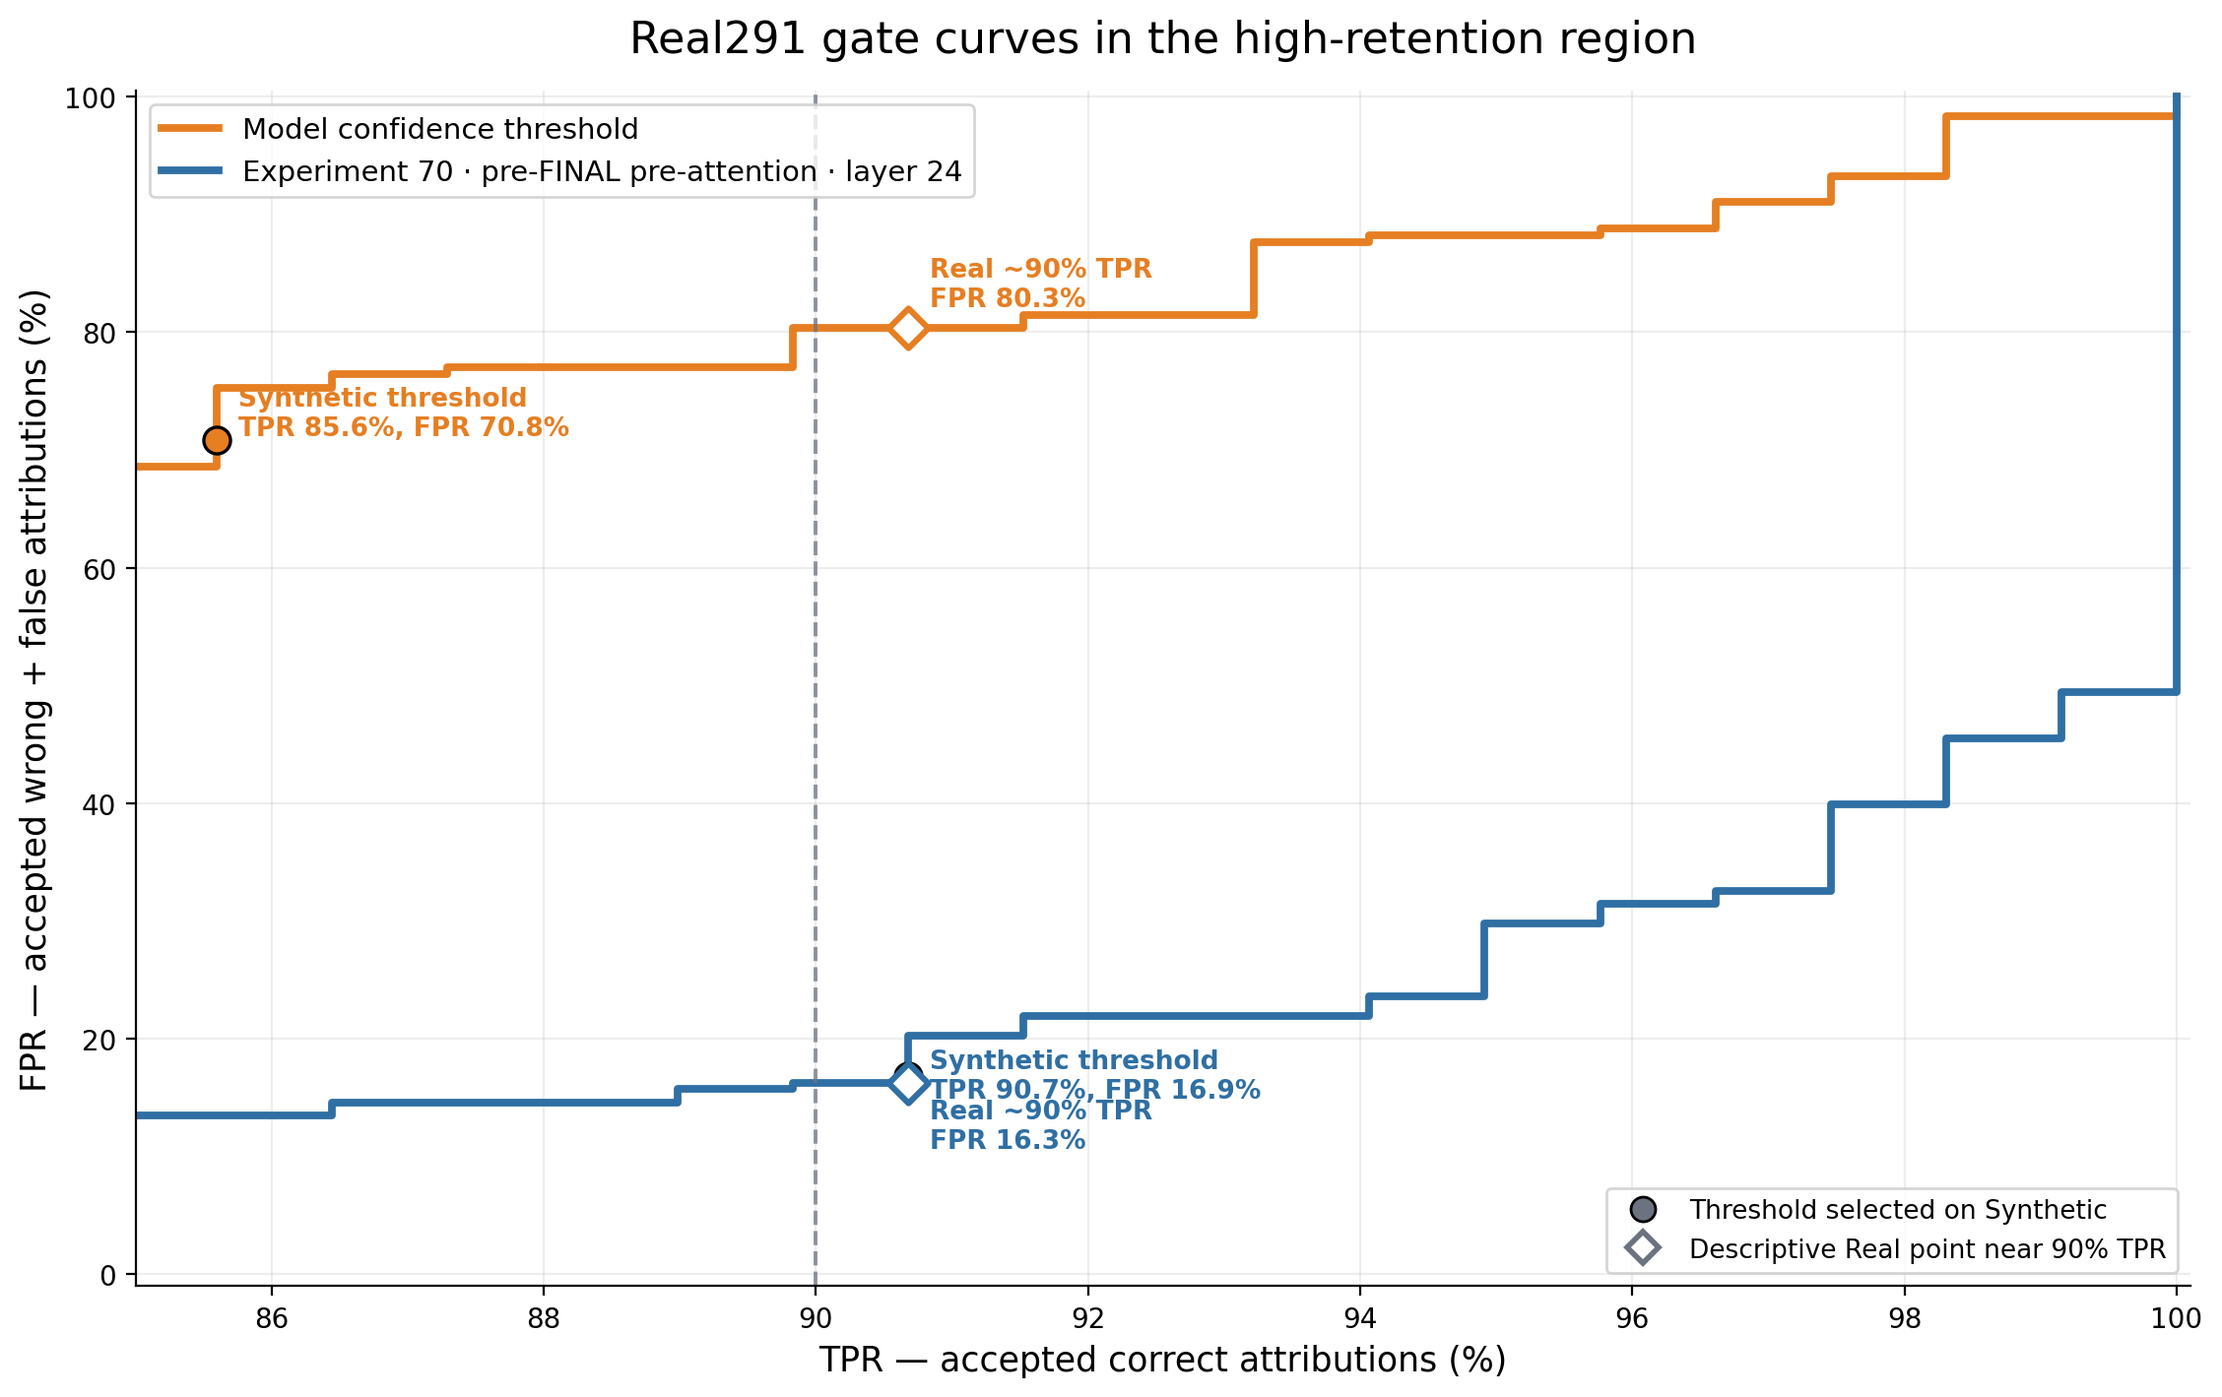
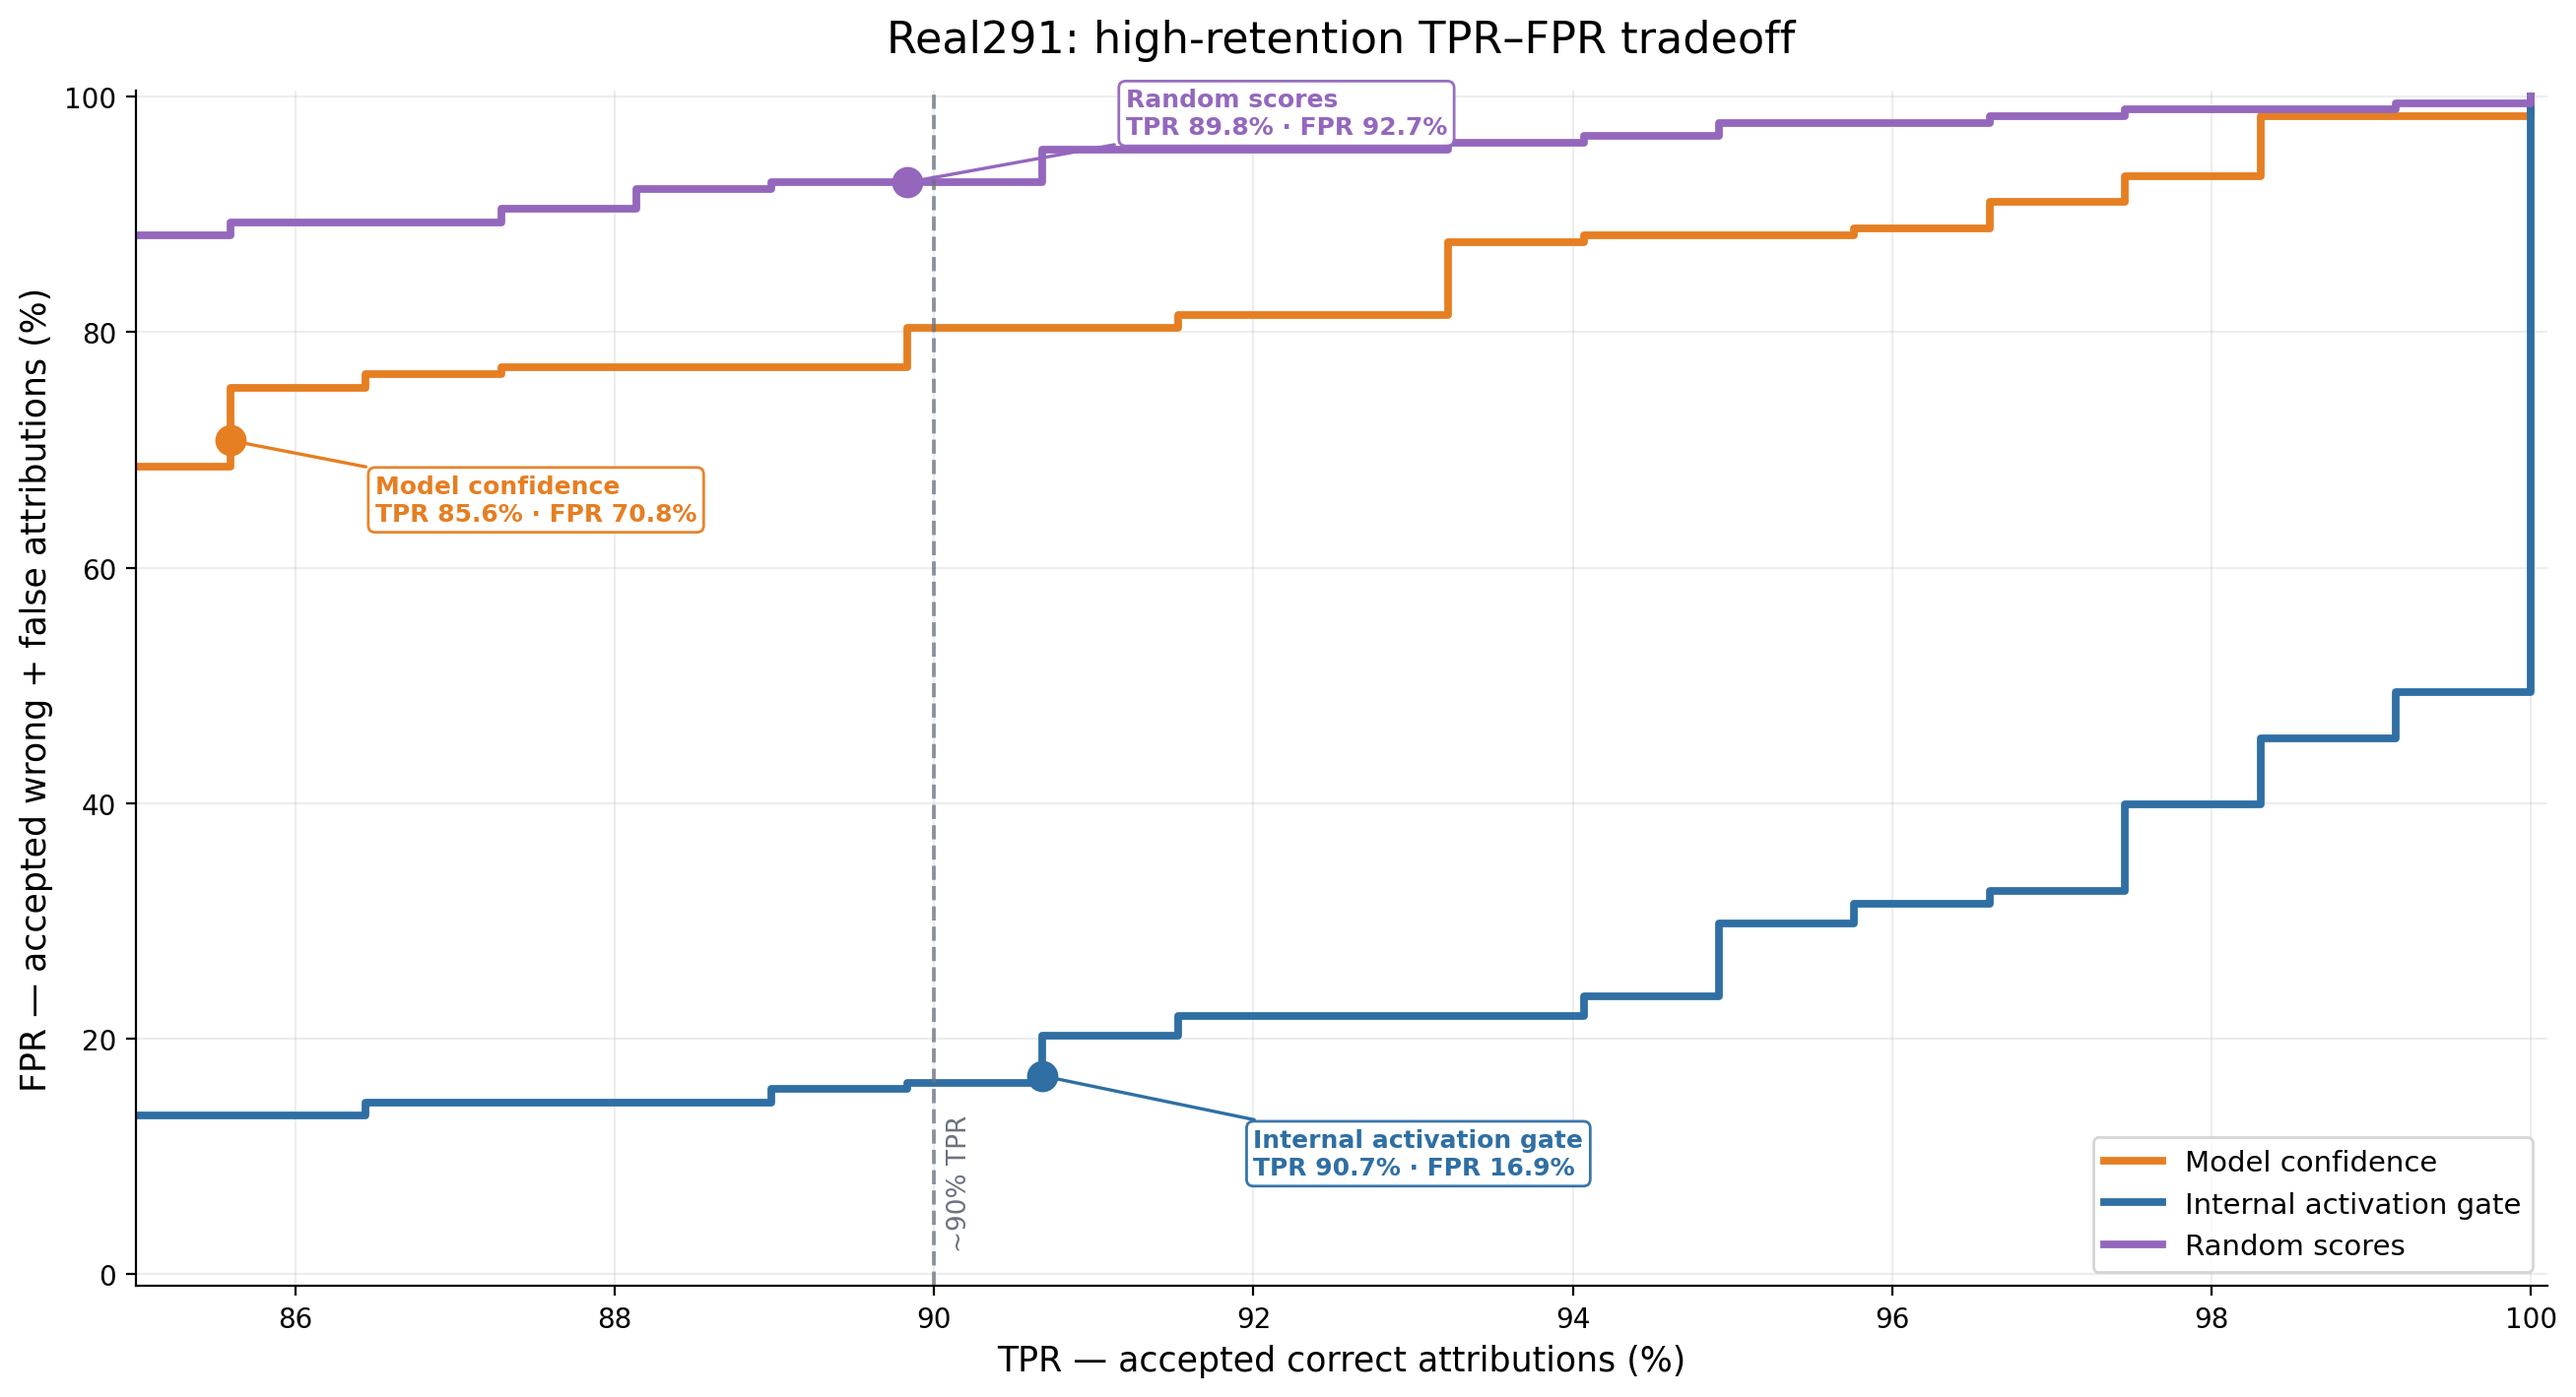
Update Real291 TPR-FPR comparison

diff --git a/index.html b/index.html
@@ -1265,8 +1265,8 @@ Output only the candidate ID after `FINAL:`, never the participant name.</code><
           <h3 id="weekly-aug-tpr-fpr-heading">TPR–FPR</h3>
           <figure class="weekly-aug-figure">
             <img
-              src="assets/real291_exp70_tpr_fpr.png"
-              alt="Real291 gate curves comparing the model-confidence threshold with the Experiment 70 pre-FINAL pre-attention layer-24 gate"
+              src="assets/real291_exp70_tpr_fpr.png?v=20260823-random-baseline"
+              alt="Real291 high-retention TPR-FPR tradeoff comparing model confidence, the internal activation gate, and random scores"
               loading="lazy"
             >
           </figure>
